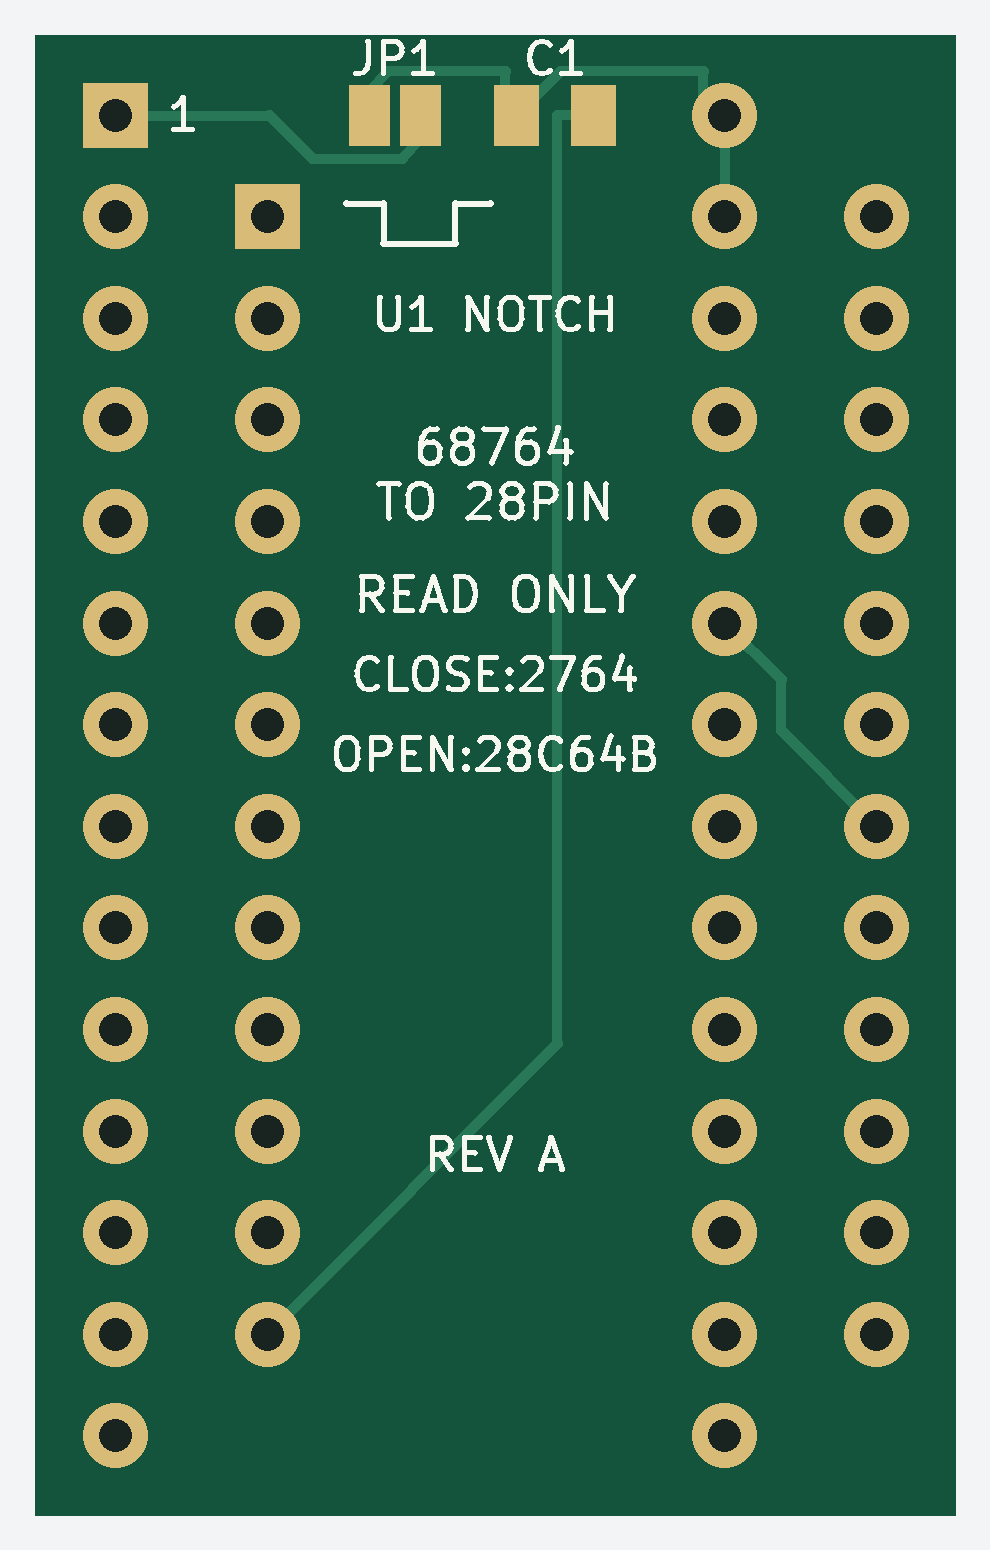
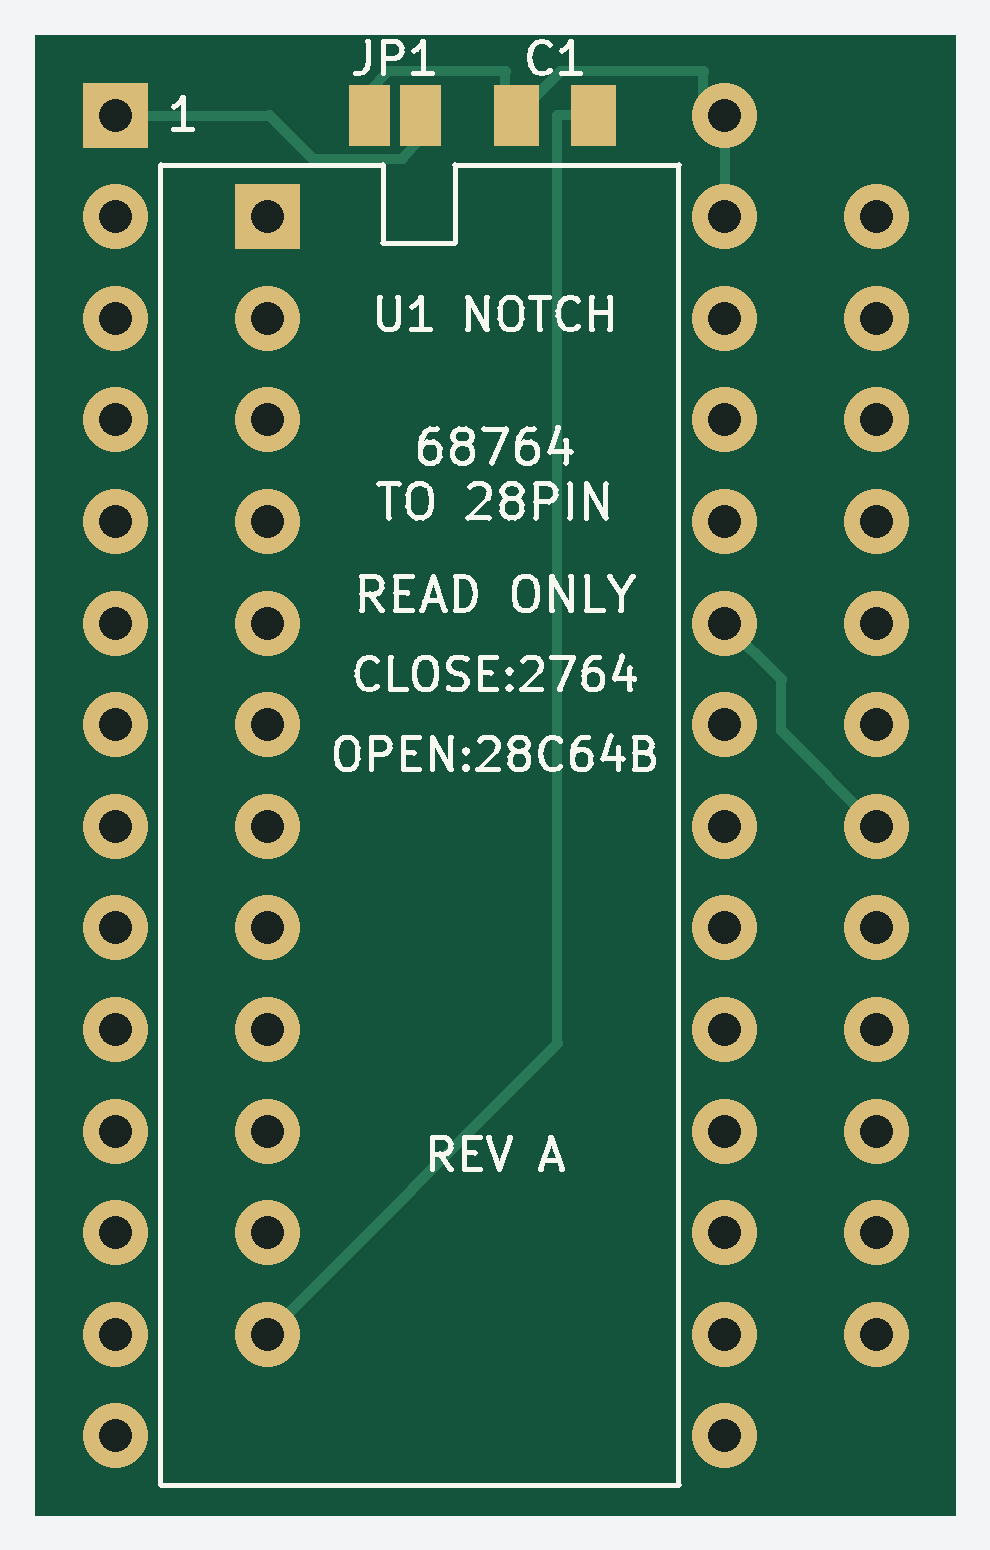
Add a notched top memory outline and refresh checked Gerbers

Changed region(s): [[0.1515, 0.0929, 0.697, 0.96]]

diff --git a/README.md b/README.md
@@ -18,16 +18,17 @@ Previews show the delivered Gerbers; the bottom is viewed from underneath.
 **C1, JP1 and `U1 NOTCH` identify the top. `J1 TO HOST` identifies the bottom.**
 Each connector has its own square pin-1 pad; their positions are offset.
 Both notch ends face the same end of the board.
+The notched top silkscreen outline marks the 28-pin memory position.
 
 [Photo of the first bare boards](images/first-boards.jpg): top on the left,
-bottom on the right. Those boards predate the printed designer credit.
+bottom on the right. Those boards predate the printed designer credit and top outline.
 For my own batches, I also use JLCPCB's order-time QR option for identifiers
 such as `JDG001`–`JDG025`. Public Gerbers include permanent
 `hexbus.com (c) 2026` credit so boards made by others are identified too.
 
 ## Files and fabrication
 
-- **[Download the Gerber ZIP — Rev A, 9 November 2026](https://github.com/hexbus/2364-adapter/raw/refs/heads/main/gerbers/2364-adapter-rev-a-20261109.zip)**
+- **[Download the Gerber ZIP — Rev A with top outline, 9 November 2026](https://github.com/hexbus/2364-adapter/raw/refs/heads/main/gerbers/2364-adapter-rev-a-outline-20261109.zip)**
 - **[Order at JLCPCB using my referral link](https://jlcpcb.com/?from=RVDYTTLKZHK)**
 - [KiCad 10 project](hardware/68764-to-28pin.kicad_pro),
   [schematic](hardware/68764-to-28pin.kicad_sch) and [BOM](hardware/bom.csv)
@@ -44,7 +45,8 @@ on both sides and HASL or ENIG finish. Component holes are specified as
 clearance is 0.20 mm. No stencil or assembly files are included.
 
 This package retains the October 21 mask correction, adds bottom designer
-credit and moves C1/JP1 labels clear of the mask openings. Copper, masks,
+credit, includes a notched outline for the top memory, and moves C1/JP1 labels
+clear of the mask openings. Copper, masks,
 drill geometry and outline match corrected Rev A. **Do not fabricate the
 original October 19 package:** its connector pads lacked mask openings.
 
